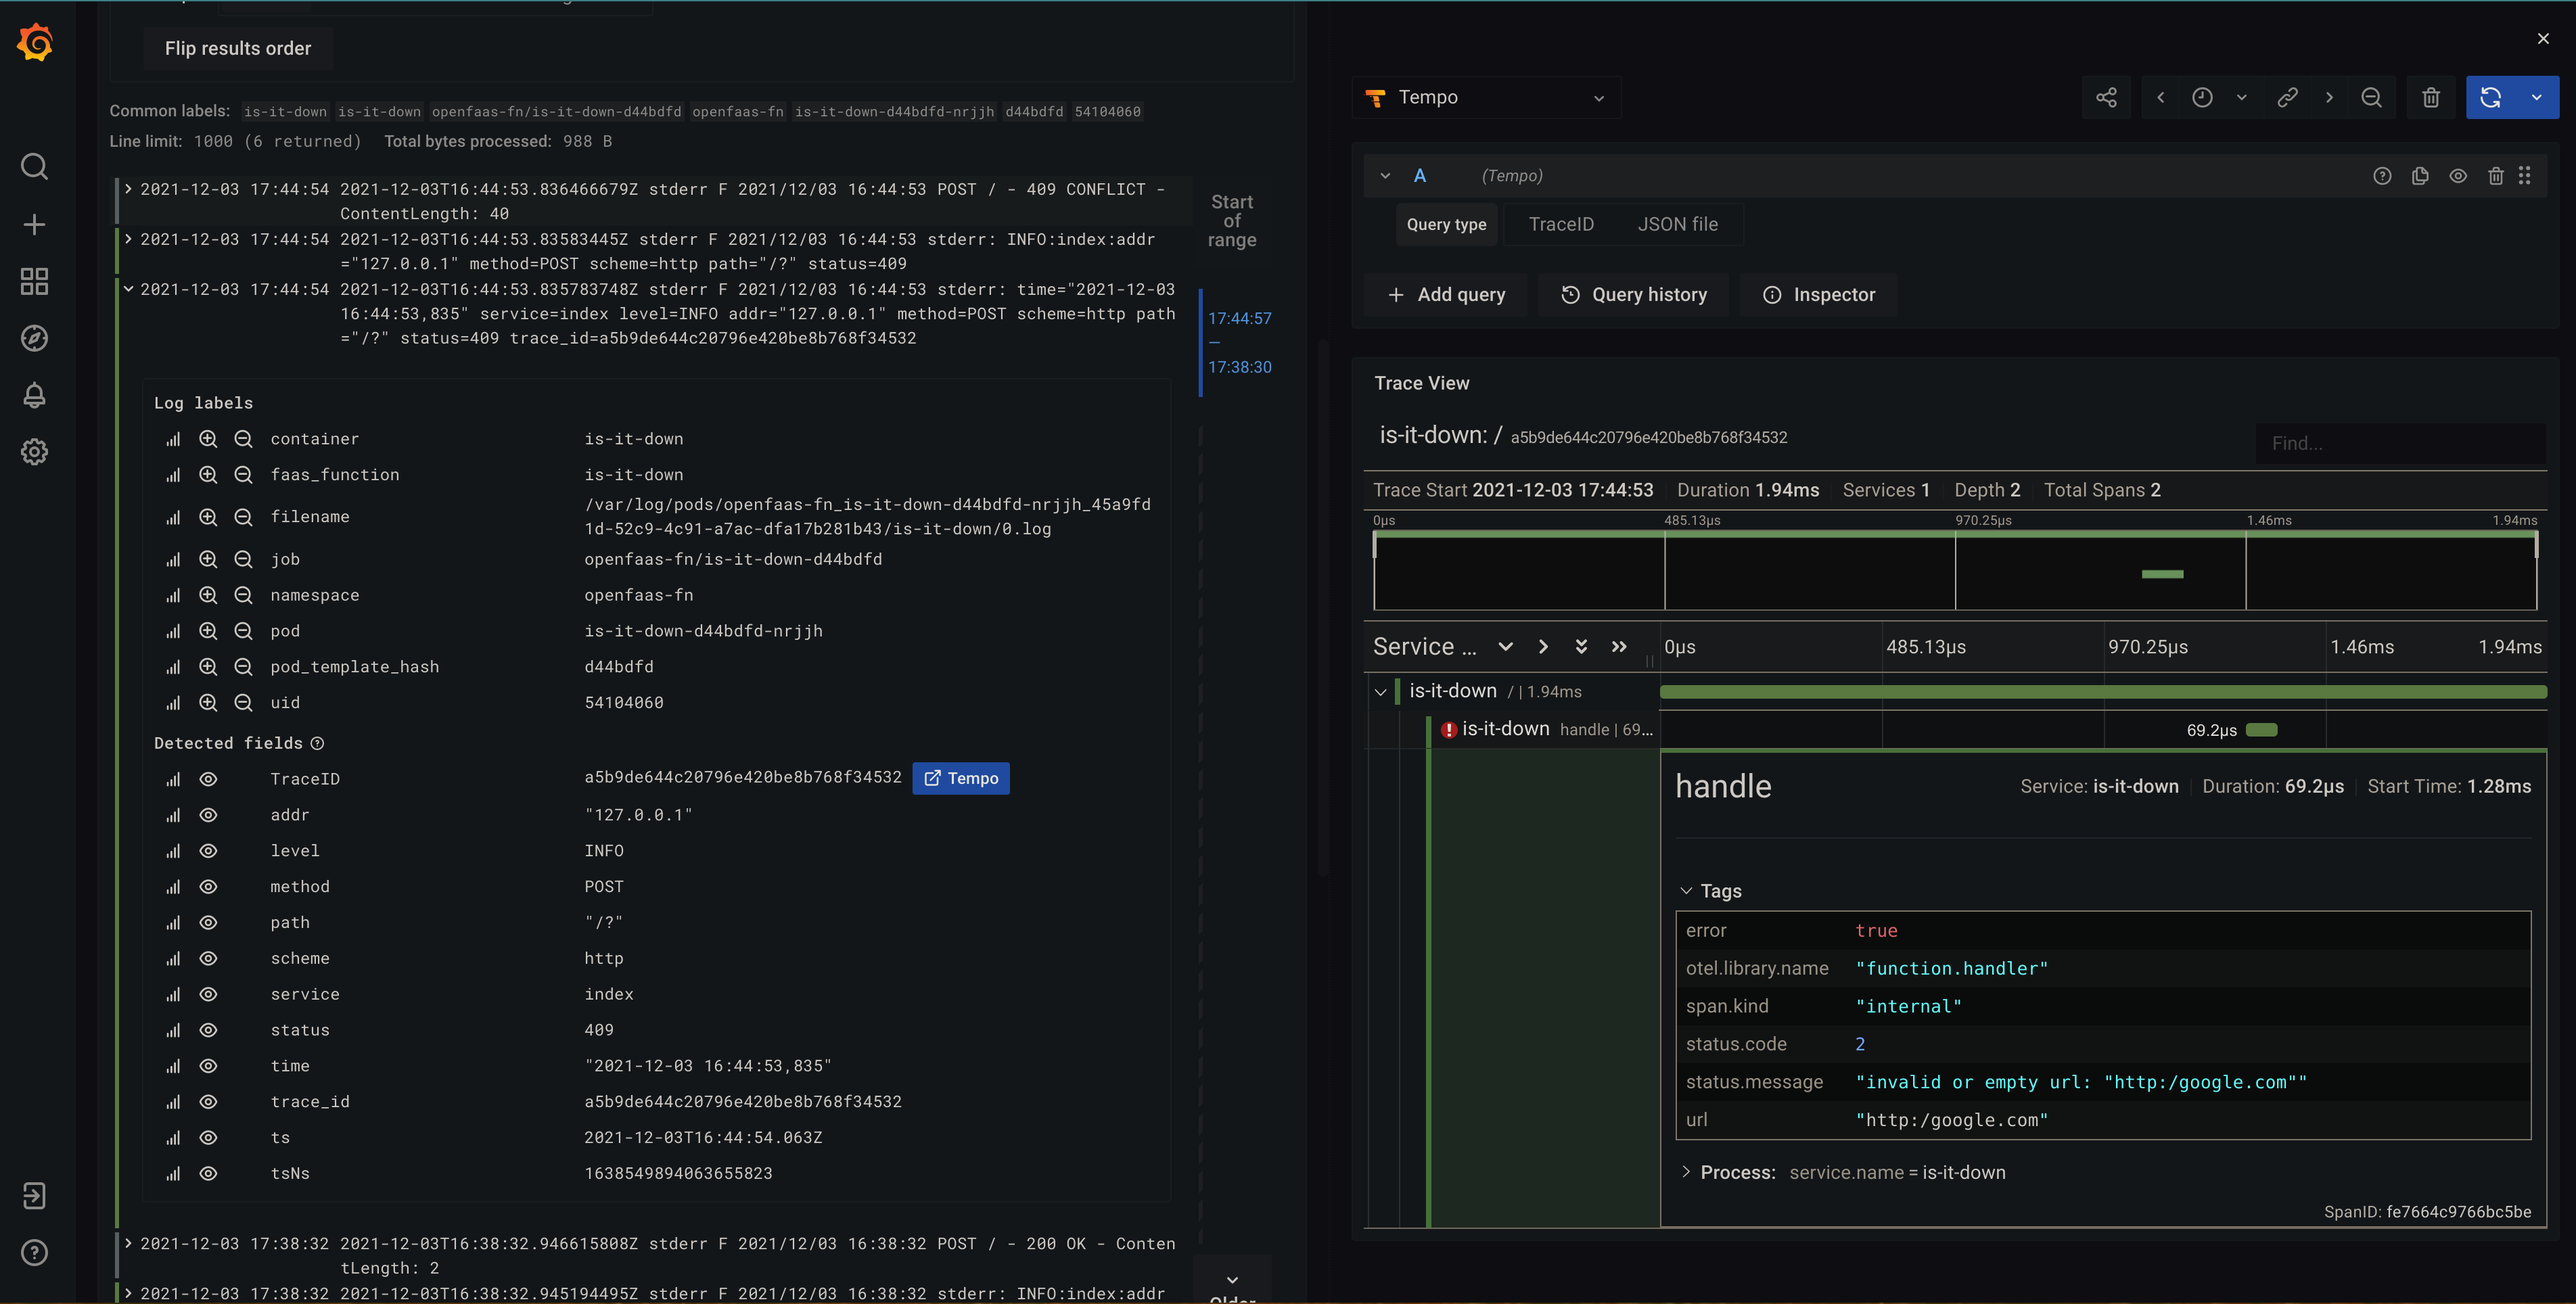
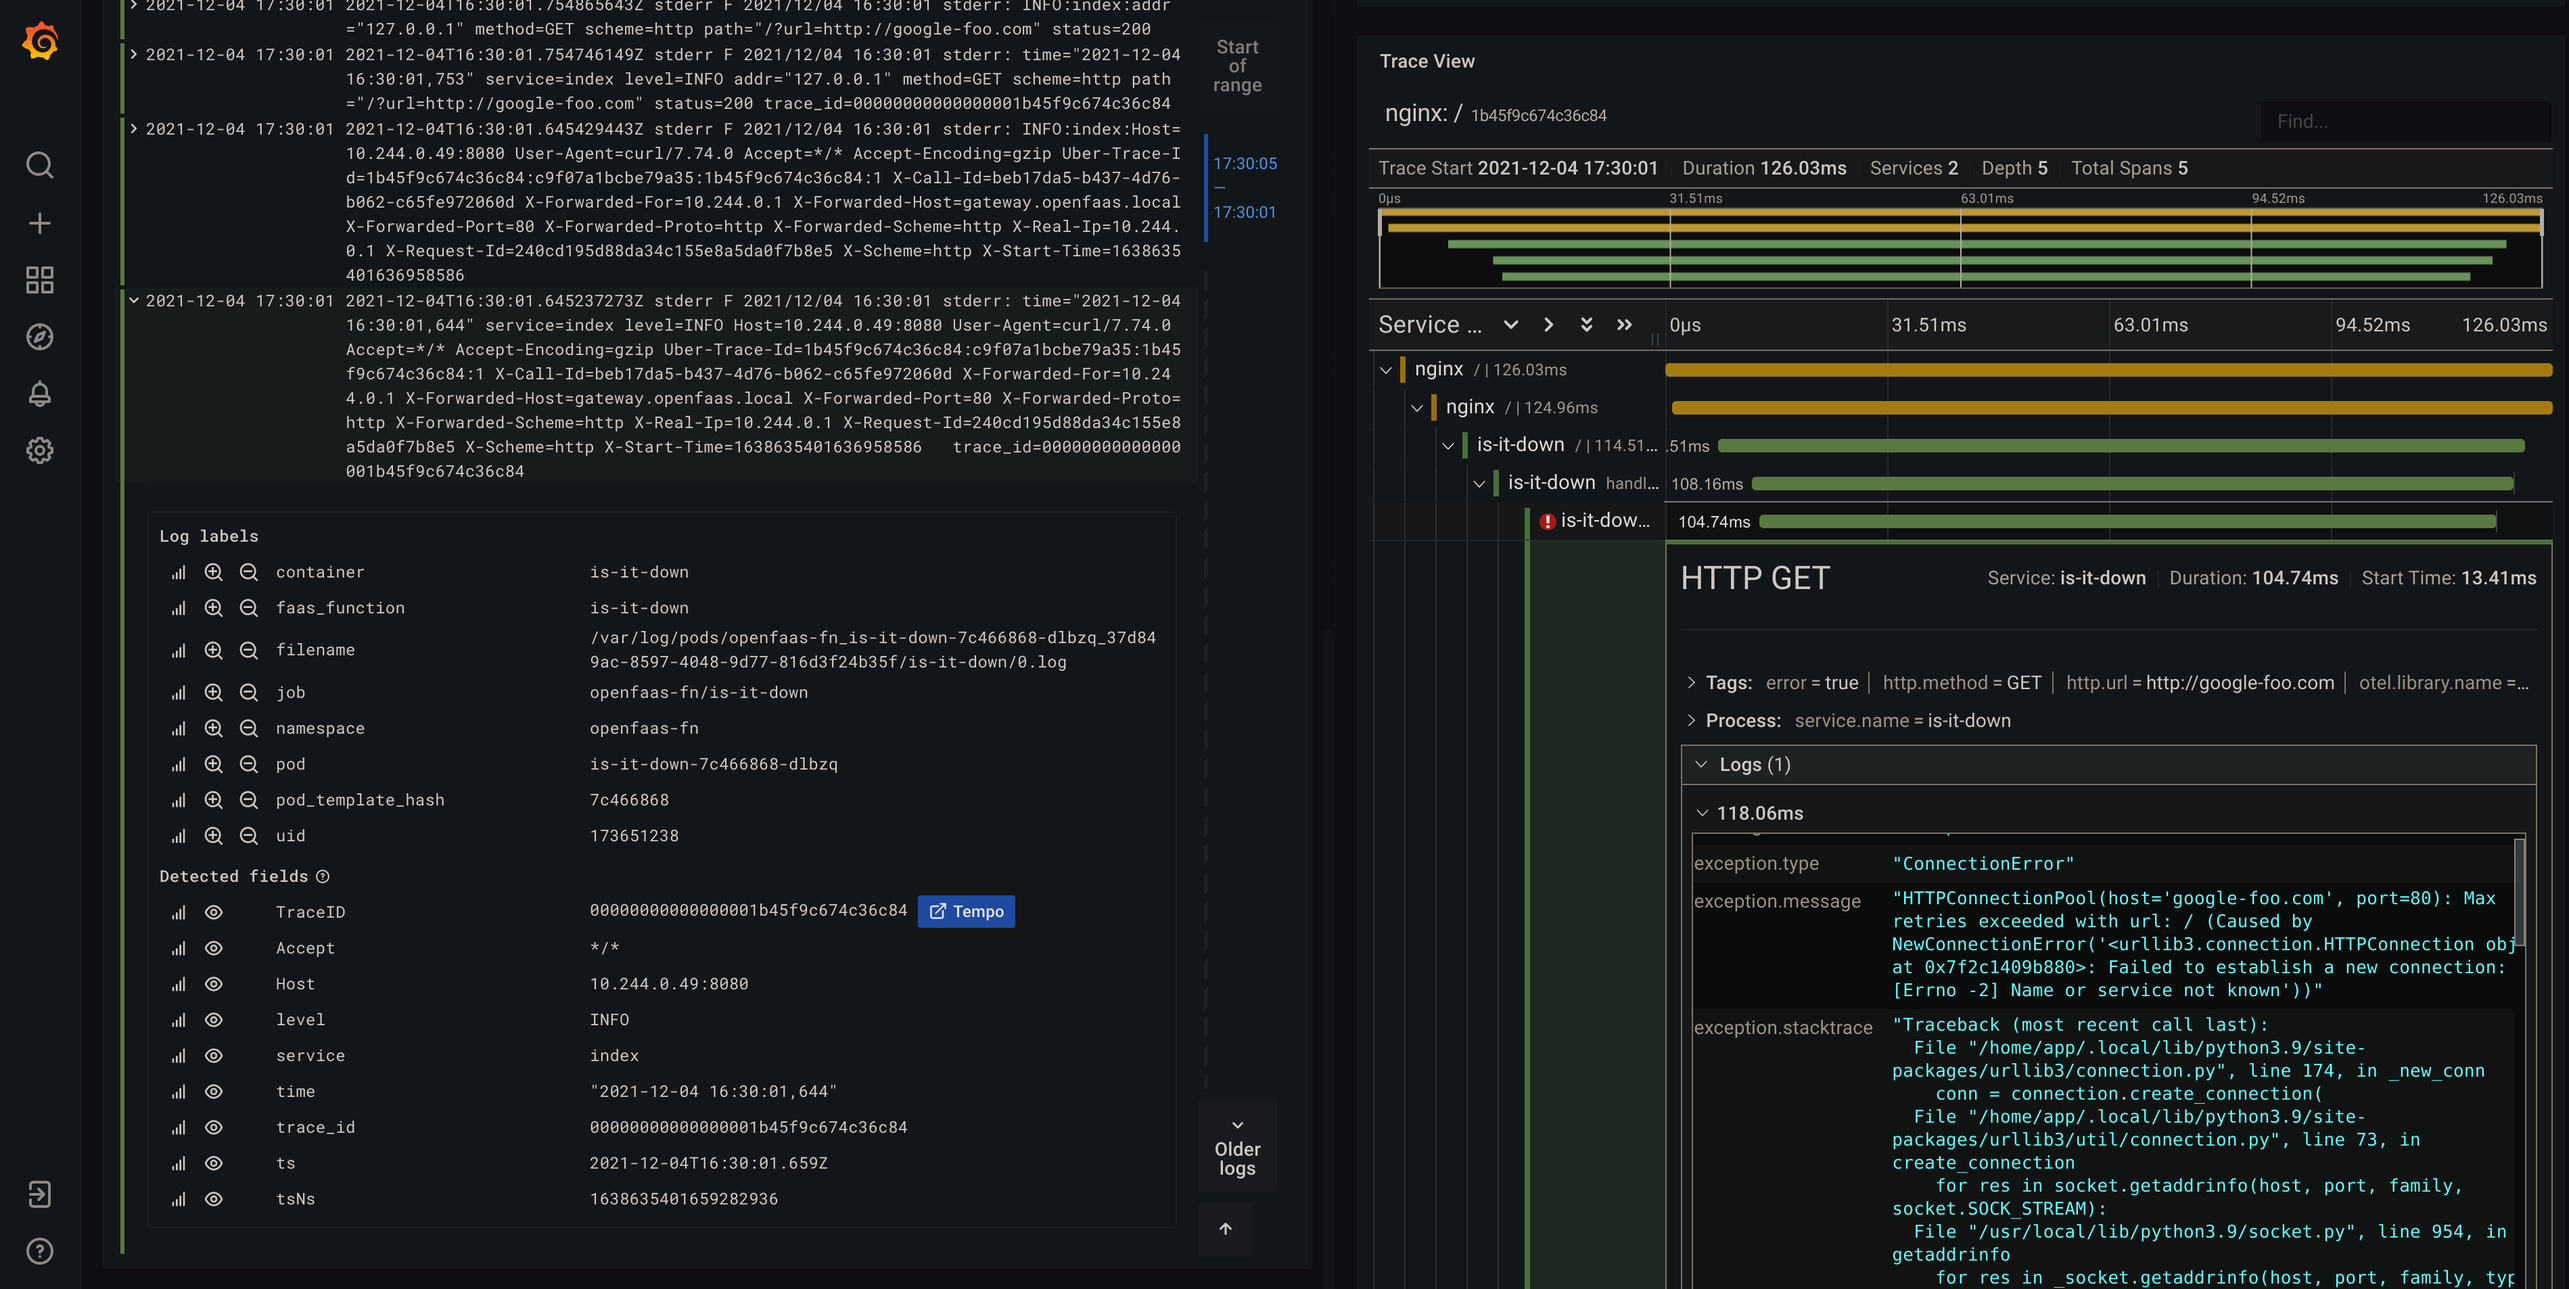
fix: document the jaeger propagator to improve the traces
Document how to setup the OpenTelemetry propagator so that we can
connect traces from NGINX to our functions.

diff --git a/is-it-down/handler.py b/is-it-down/handler.py
@@ -25,7 +25,7 @@ LOG_FMT = 'time="%(asctime)s" service=%(name)s level=%(levelname)s %(message)s t
 
 # allow overridding the service name
 NAME = os.getenv("SERVICE_NAME", "is-it-down")
-LOG_LEVEL = os.getenv("LOG_LEVEL", "INFO")
+LOG_LEVEL = os.getenv("LOG_LEVEL", "INFO").upper()
 
 
 # QueryArgs is the type used for flask query parameters

diff --git a/template/python3-flask/index.py b/template/python3-flask/index.py
@@ -33,6 +33,8 @@ def fix_transfer_encoding():
 @app.route("/<path:path>", methods=["POST", "GET"])
 def main_route(path):
 
+    app.logger.debug(str(request.headers).replace("\r\n", " ").replace(": ", "="))
+
     if request.method == "GET":
         return handler.handle(request.args)
 

diff --git a/README.md b/README.md
@@ -216,6 +216,7 @@ Now that we are prepared to monitor our applications, let's install OpenFaaS and
 ```sh
 arkade install openfaas -a=false --function-pull-policy=IfNotPresent --set ingress.enabled='true'
 arkade install openfaas-loki
+kubectl apply -f openfaas-ing.yaml
 ```
 
 Because we exposed port 8080 when we setup the Cluster and disabled auth when we installed OpenFaaS, we can start using faas-cli right away
@@ -271,9 +272,12 @@ This example will use the Python 3 Flask template and OpenTelemetry.
    opentelemetry-exporter-otlp==1.7.1
    opentelemetry-instrumentation-flask==0.26b1
    opentelemetry-instrumentation-requests==0.26b1
+   opentelemetry-propagator-jaeger==1.7.1
    opentelemetry-sdk==1.7.1
    requests==2.26.0
    ```
+
+   Note that `opentelemetry-propagator-jaeger` enables capability with applications that are using Jaeger OpenTracing, like our NGINX load balancer.
 
 4. Now the implementation. The most important (and simplest) part is our handler
 
@@ -369,7 +373,20 @@ This example will use the Python 3 Flask template and OpenTelemetry.
 
    see the full source code in the [repo](https://github.com/LucasRoesler/openfaas-tracing-walkthrough)
 
-5. Try the function. If you are running this locally or with your own custom function, then we need to build and load the function into our cluster
+5. Finally, to configure the tracing, we need to set a couple environment variables for our function, specifically, we need these three variables
+
+   ```yaml
+   environment:
+     TRACING: "true"
+     OTEL_EXPORTER_OTLP_TRACES_ENDPOINT: http://tempo.default.svc.cluster.local:4317
+     OTEL_PROPAGATORS: tracecontext,baggage,jaeger
+   ```
+
+   The variable `OTEL_EXPORTER_OTLP_TRACES_ENDPOINT` tells the OpenTelemetry exporter where to send traces, in our deployment this is Tempo. Tempo provides support for ingesting both OpenTracing _and_ OpenTelemetry, on port 6831 and 4317 respectively. We are using the OpenTelemetry exporter, so we are using `4317`.
+
+   Additionally, because NGINX is creating Jaeger compatible traces, we need to configure OpenTelemetry tracing propagator to support Jaeger in addition to the default OpenTelemetry trace ids. We do this by setting the `OTEL_PROPAGATORS` variables to include `jaeger`.
+
+6. Try the function. If you are running this locally or with your own custom function, then we need to build and load the function into our cluster
 
    ```sh
    faas-cli build
@@ -385,8 +402,10 @@ This example will use the Python 3 Flask template and OpenTelemetry.
    To invoke we can use
 
    ```sh
-   $ echo "http://google.com" | faas-cli invoke is-it-down
+   $ curl "http://gateway.openfaas.local/function/is-it-down?url=http://google.com"
    up
+   $ curl "http://gateway.openfaas.local/function/is-it-down?url=http://google-foo.com"
+   down
    ```
 
 Now, you can go to the Loki logs to find one of the function traces [{faas_function="is-it-down"}](http://monitoring.openfaas.local/grafana/explore?orgId=1&left=%5B%22now-15m%22,%22now%22,%22Loki%22,%7B%22refId%22:%22A%22,%22expr%22:%22%7Bfaas_function%3D%5C%22is-it-down%5C%22%7D%22%7D%5D), the trace id will be in the log. Using this, we can jump to the corresponding trace to see the timing.
